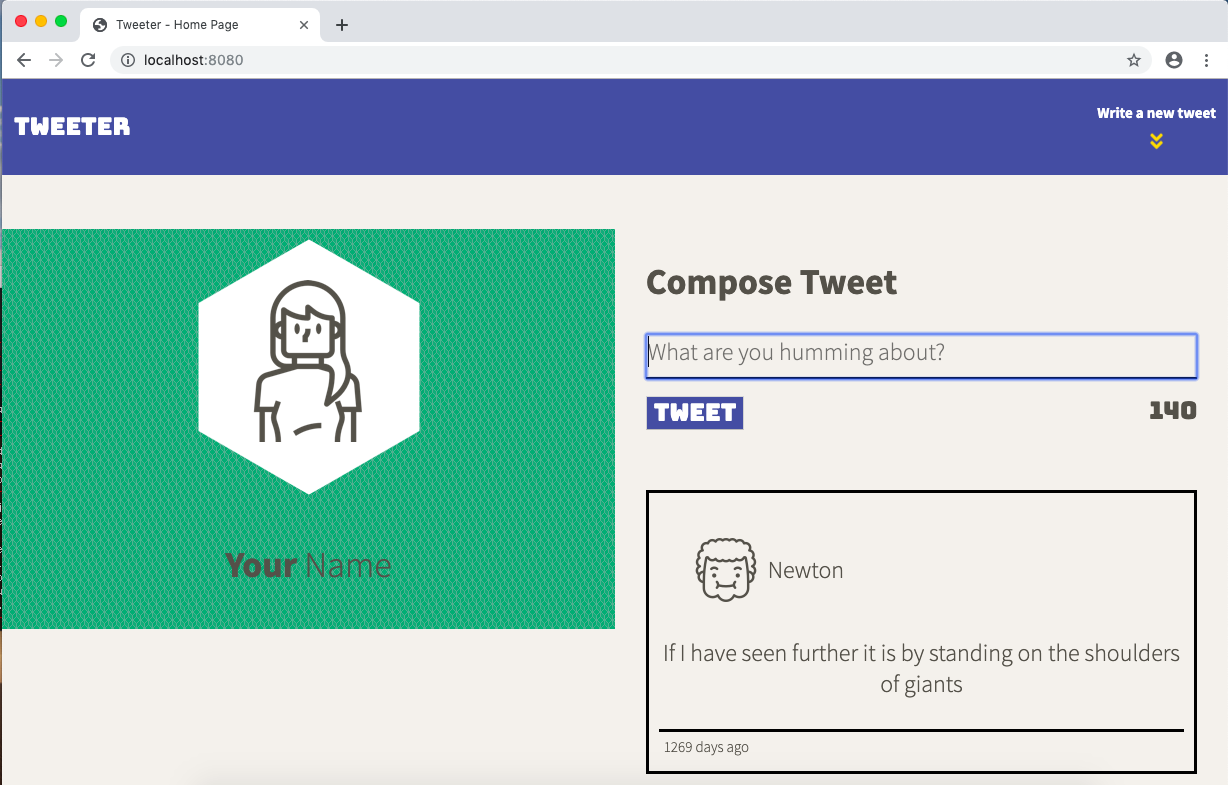
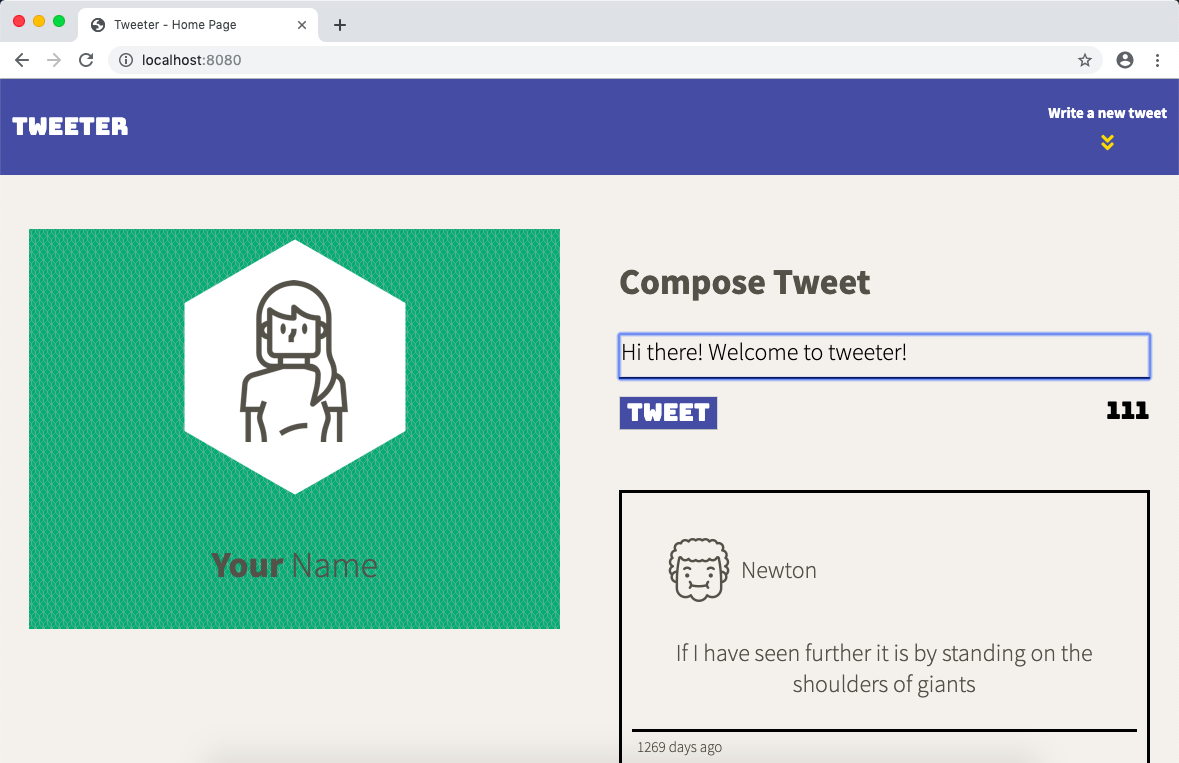
updated screenshots, fixed sizing bug

Changed region(s): [[0.0, 0.2713, 0.9771, 0.9948], [0.0, 0.0, 1.0, 0.2412], [0.2443, 0.0, 0.3053, 0.0603]]

diff --git a/public/styles/header.css b/public/styles/header.css
@@ -1,6 +1,6 @@
 .siteHeader {
   height: 400px;
-  width: 100%;
+  width: 90%;
   background-color: #45a673;
   background-image: url('../images/merely-cubed.png');
   margin-left: auto;
